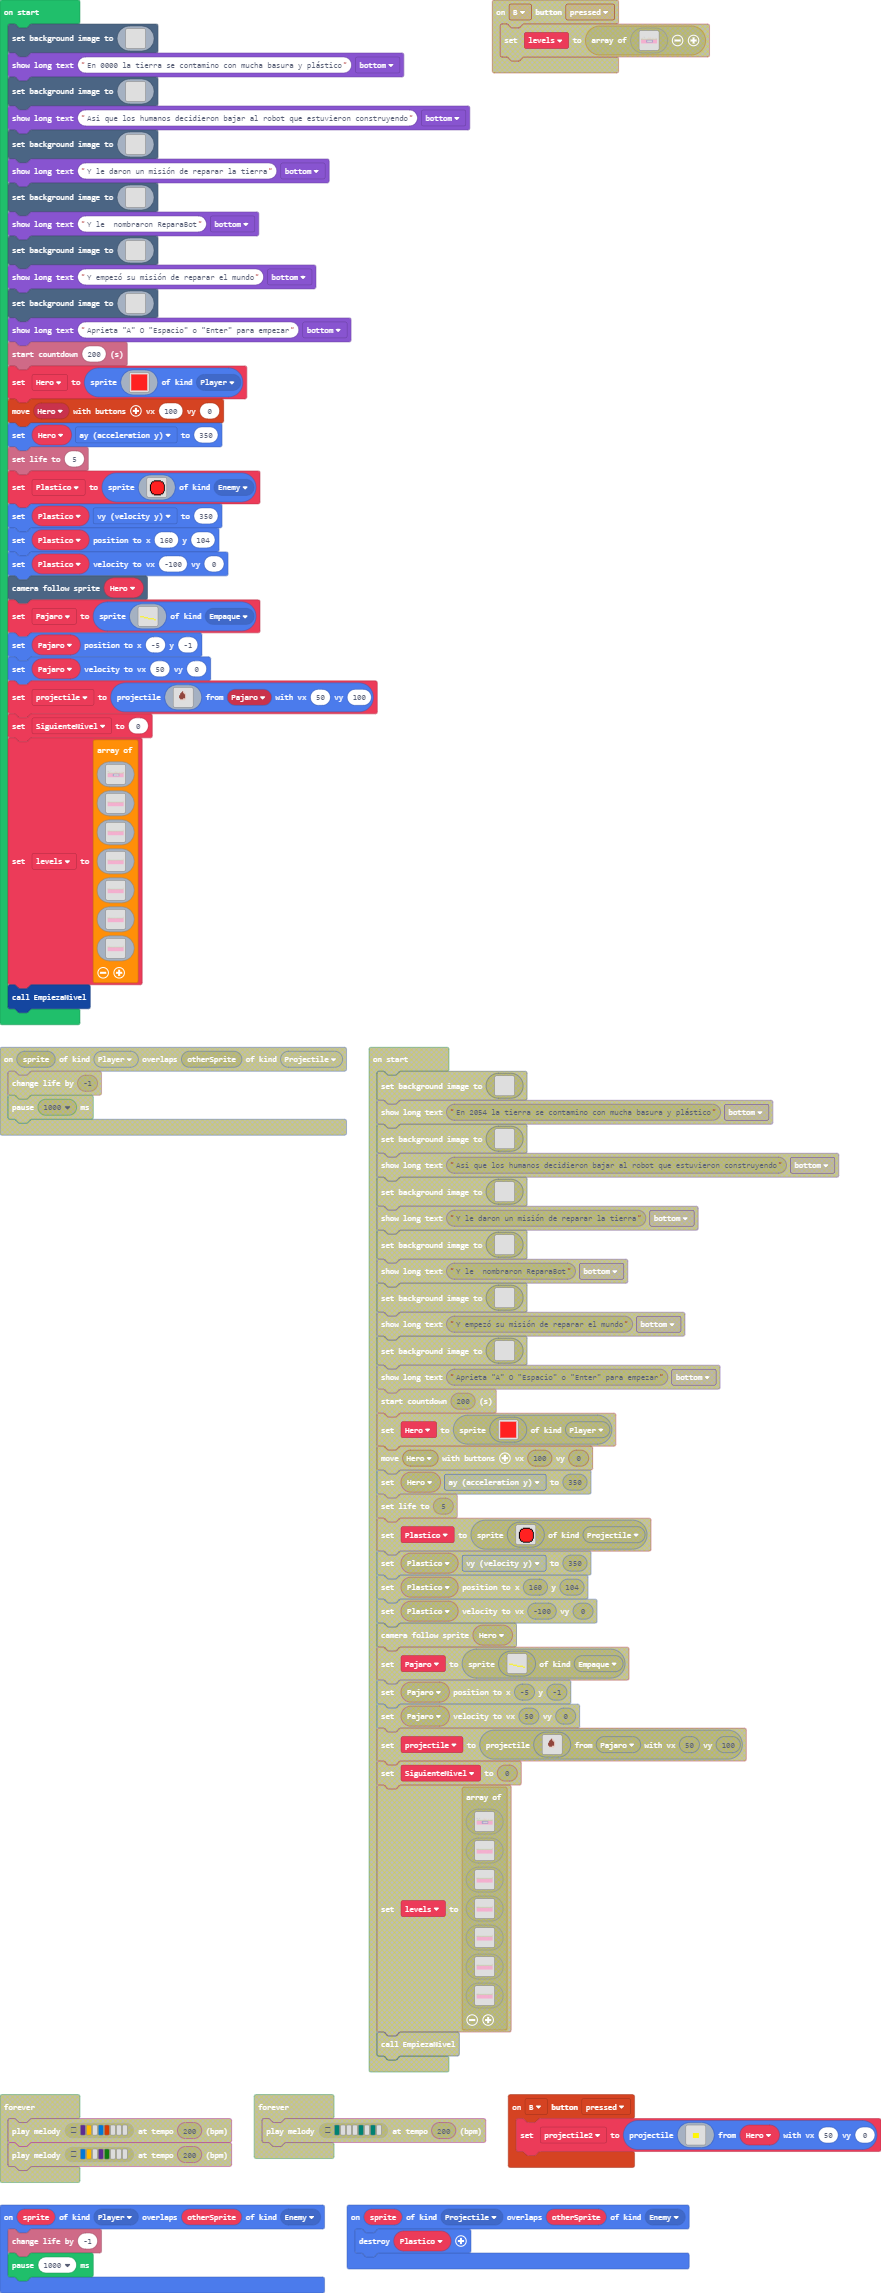
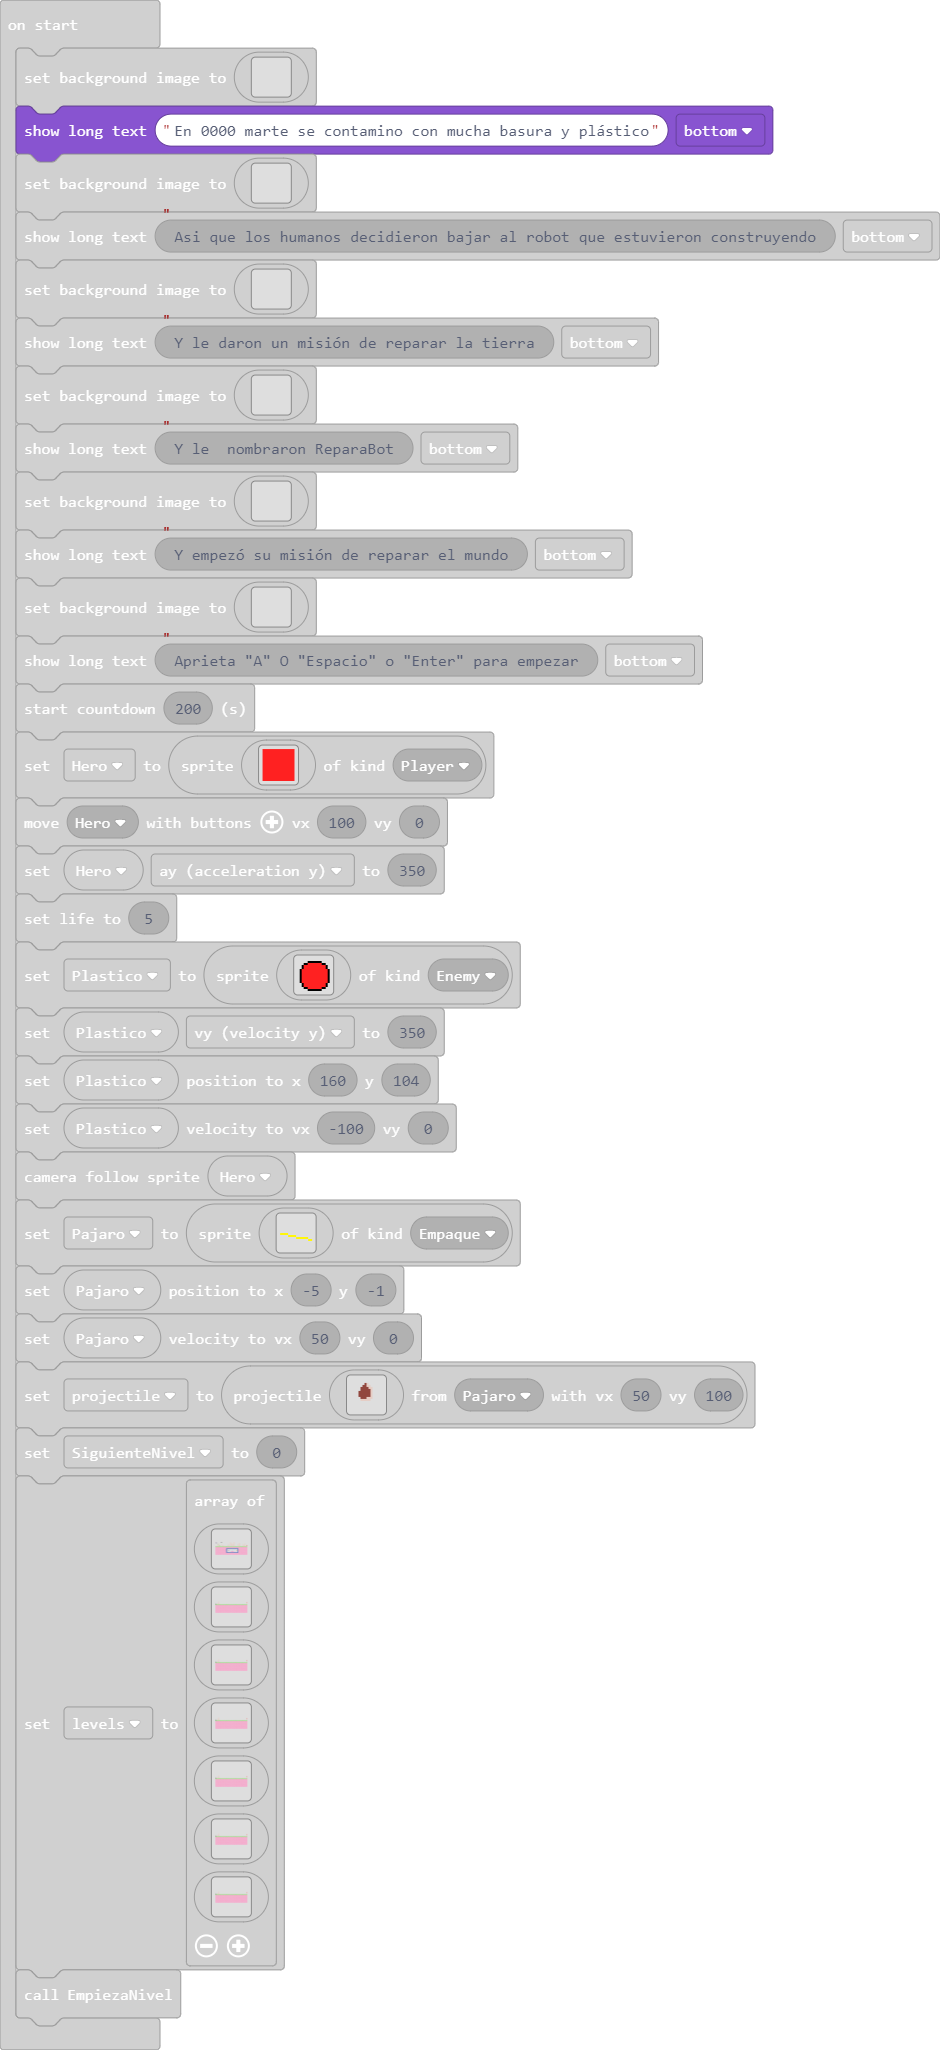
arham:cambio de nombre del planeta

diff --git a/main.ts b/main.ts
@@ -404,7 +404,7 @@ scene.setBackgroundImage(img`
 . . . . . . . . . . . . . . . . . . . . . . . . . . . . . . . . . . . . . . . . . . . . . . . . . . . . . . . . . . . . . . . . . . . . . . . . . . . . . . . . . . . . . . . . . . . . . . . . . . . . . . . . . . . . . . . . . . . . . . . . . . . . . . . . . . . . . . . . . . . . . . . . . . . . . . . . . . . . . . . . 
 . . . . . . . . . . . . . . . . . . . . . . . . . . . . . . . . . . . . . . . . . . . . . . . . . . . . . . . . . . . . . . . . . . . . . . . . . . . . . . . . . . . . . . . . . . . . . . . . . . . . . . . . . . . . . . . . . . . . . . . . . . . . . . . . . . . . . . . . . . . . . . . . . . . . . . . . . . . . . . . . 
 `)
-game.showLongText("En 0000 la tierra se contamino con mucha basura y plástico", DialogLayout.Bottom)
+game.showLongText("En 0000 marte se contamino con mucha basura y plástico", DialogLayout.Bottom)
 scene.setBackgroundImage(img`
 . . . . . . . . . . . . . . . . . . . . . . . . . . . . . . . . . . . . . . . . . . . . . . . . . . . . . . . . . . . . . . . . . . . . . . . . . . . . . . . . . . . . . . . . . . . . . . . . . . . . . . . . . . . . . . . . . . . . . . . . . . . . . . . . . . . . . . . . . . . . . . . . . . . . . . . . . . . . . . . . 
 . . . . . . . . . . . . . . . . . . . . . . . . . . . . . . . . . . . . . . . . . . . . . . . . . . . . . . . . . . . . . . . . . . . . . . . . . . . . . . . . . . . . . . . . . . . . . . . . . . . . . . . . . . . . . . . . . . . . . . . . . . . . . . . . . . . . . . . . . . . . . . . . . . . . . . . . . . . . . . . . 
